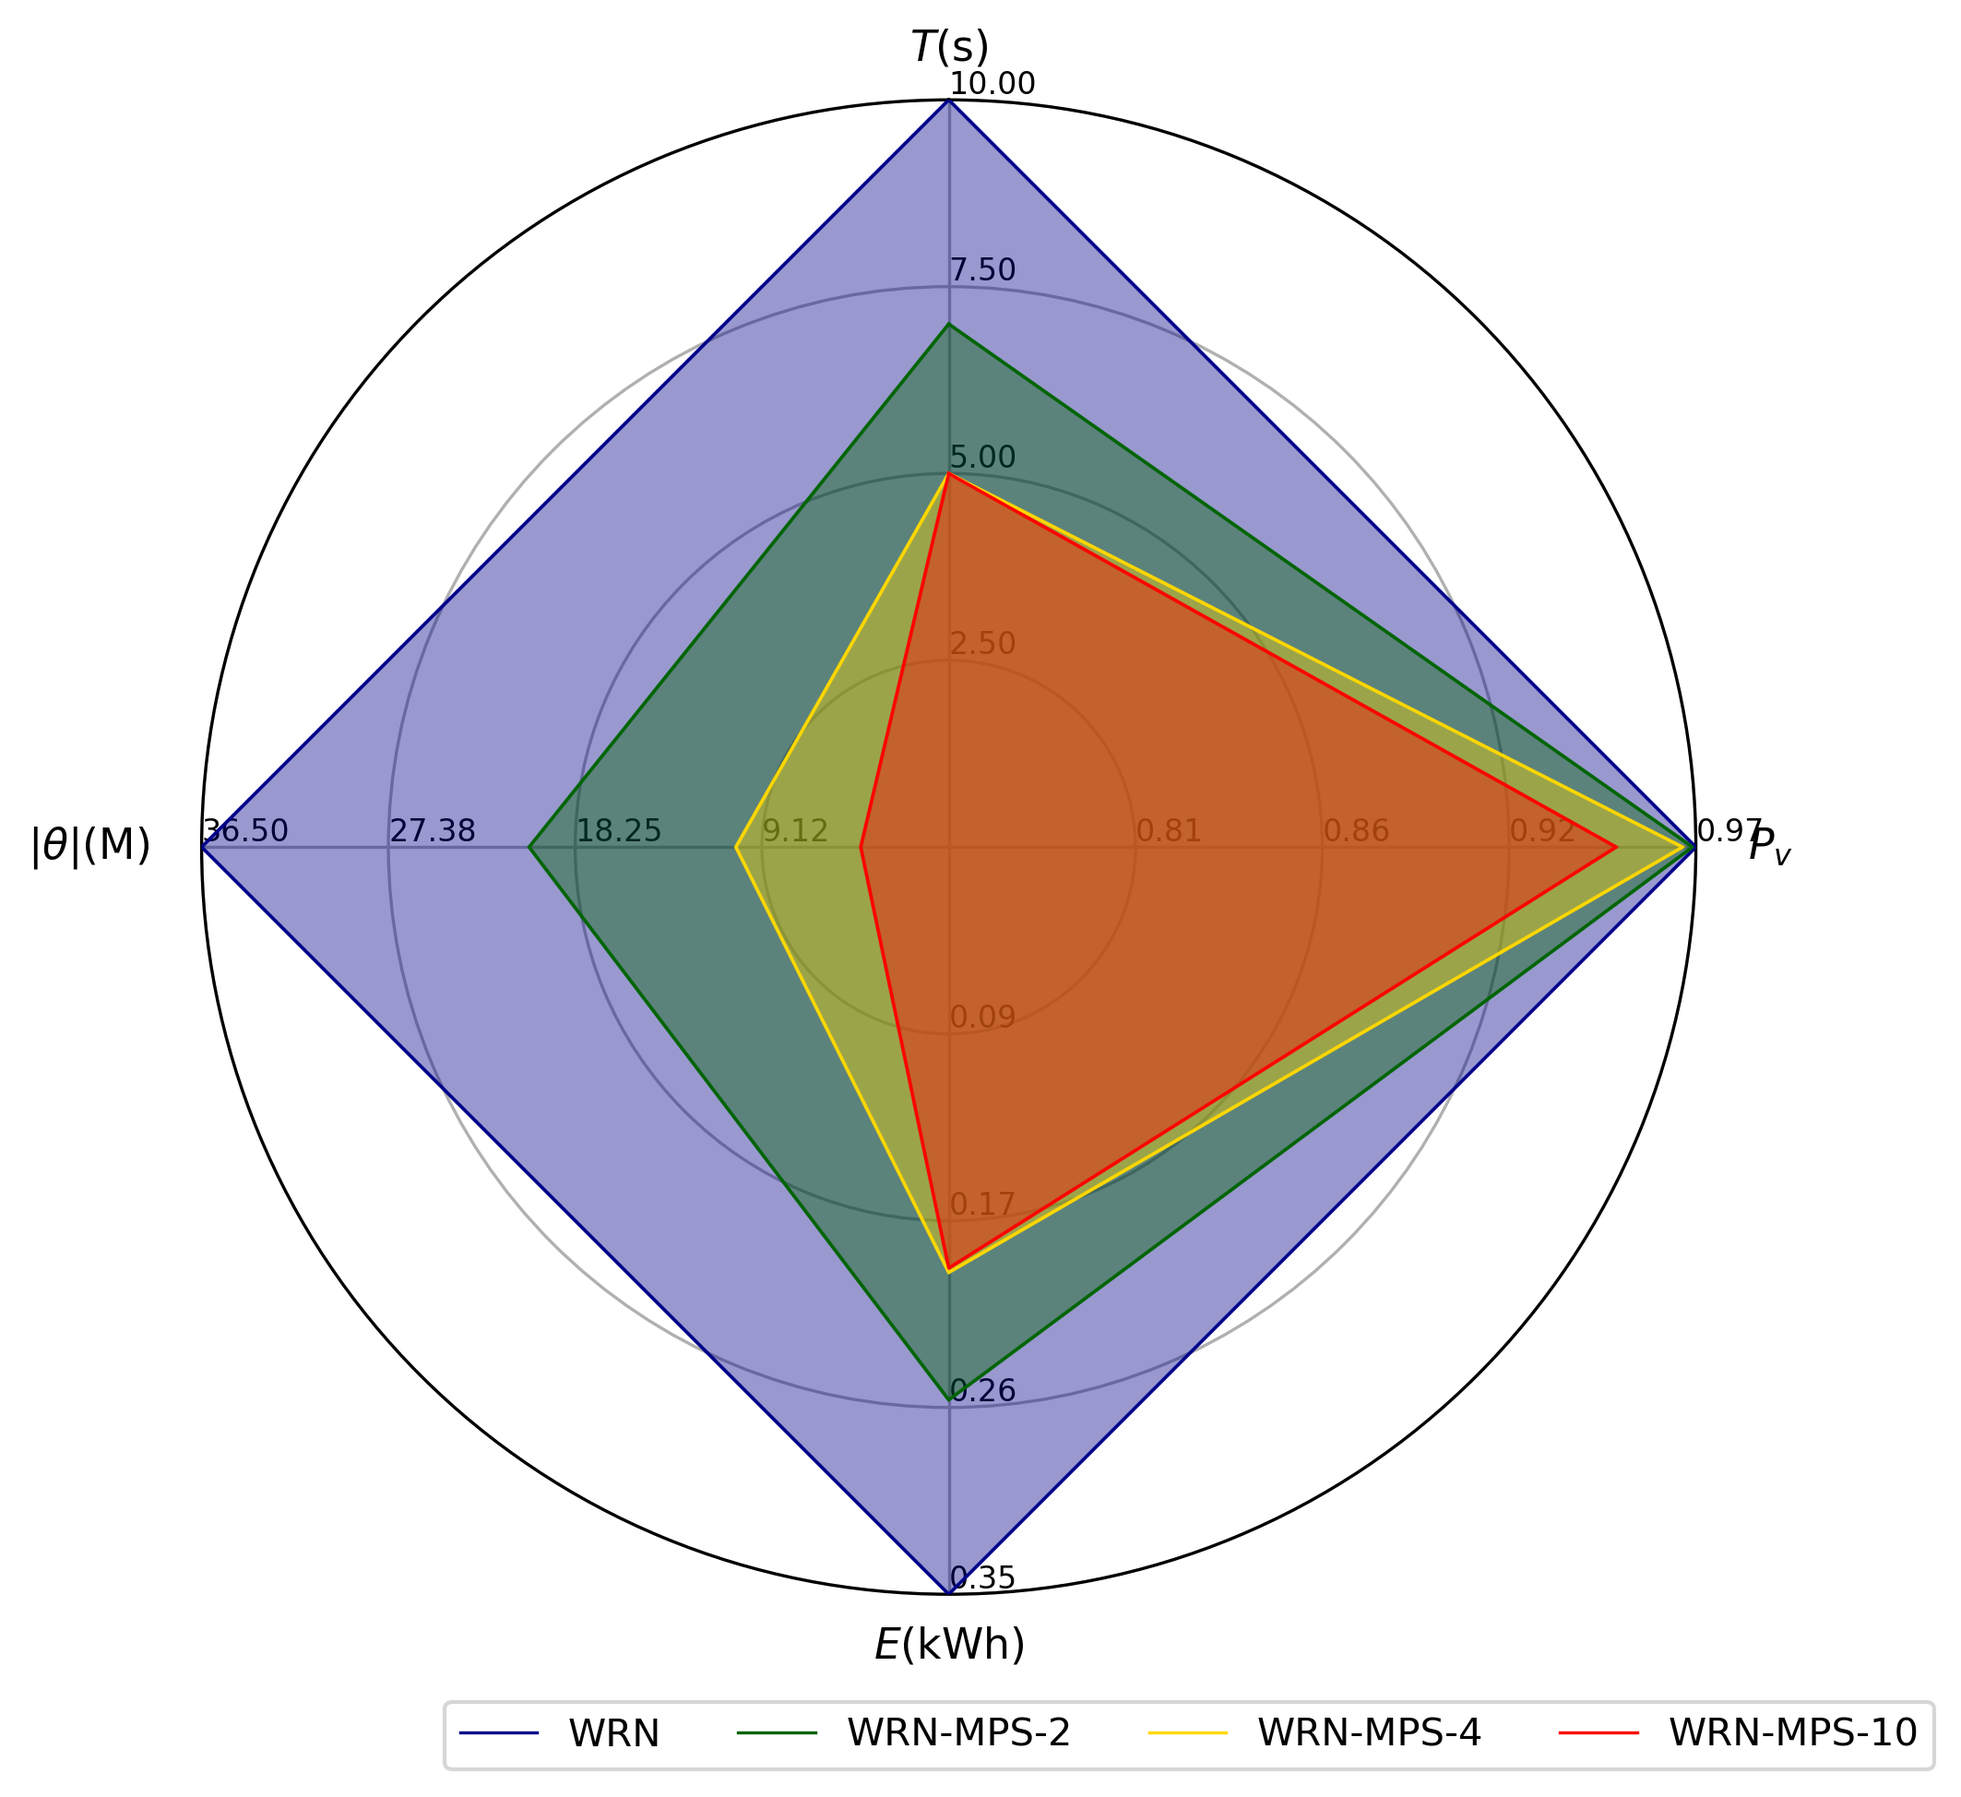
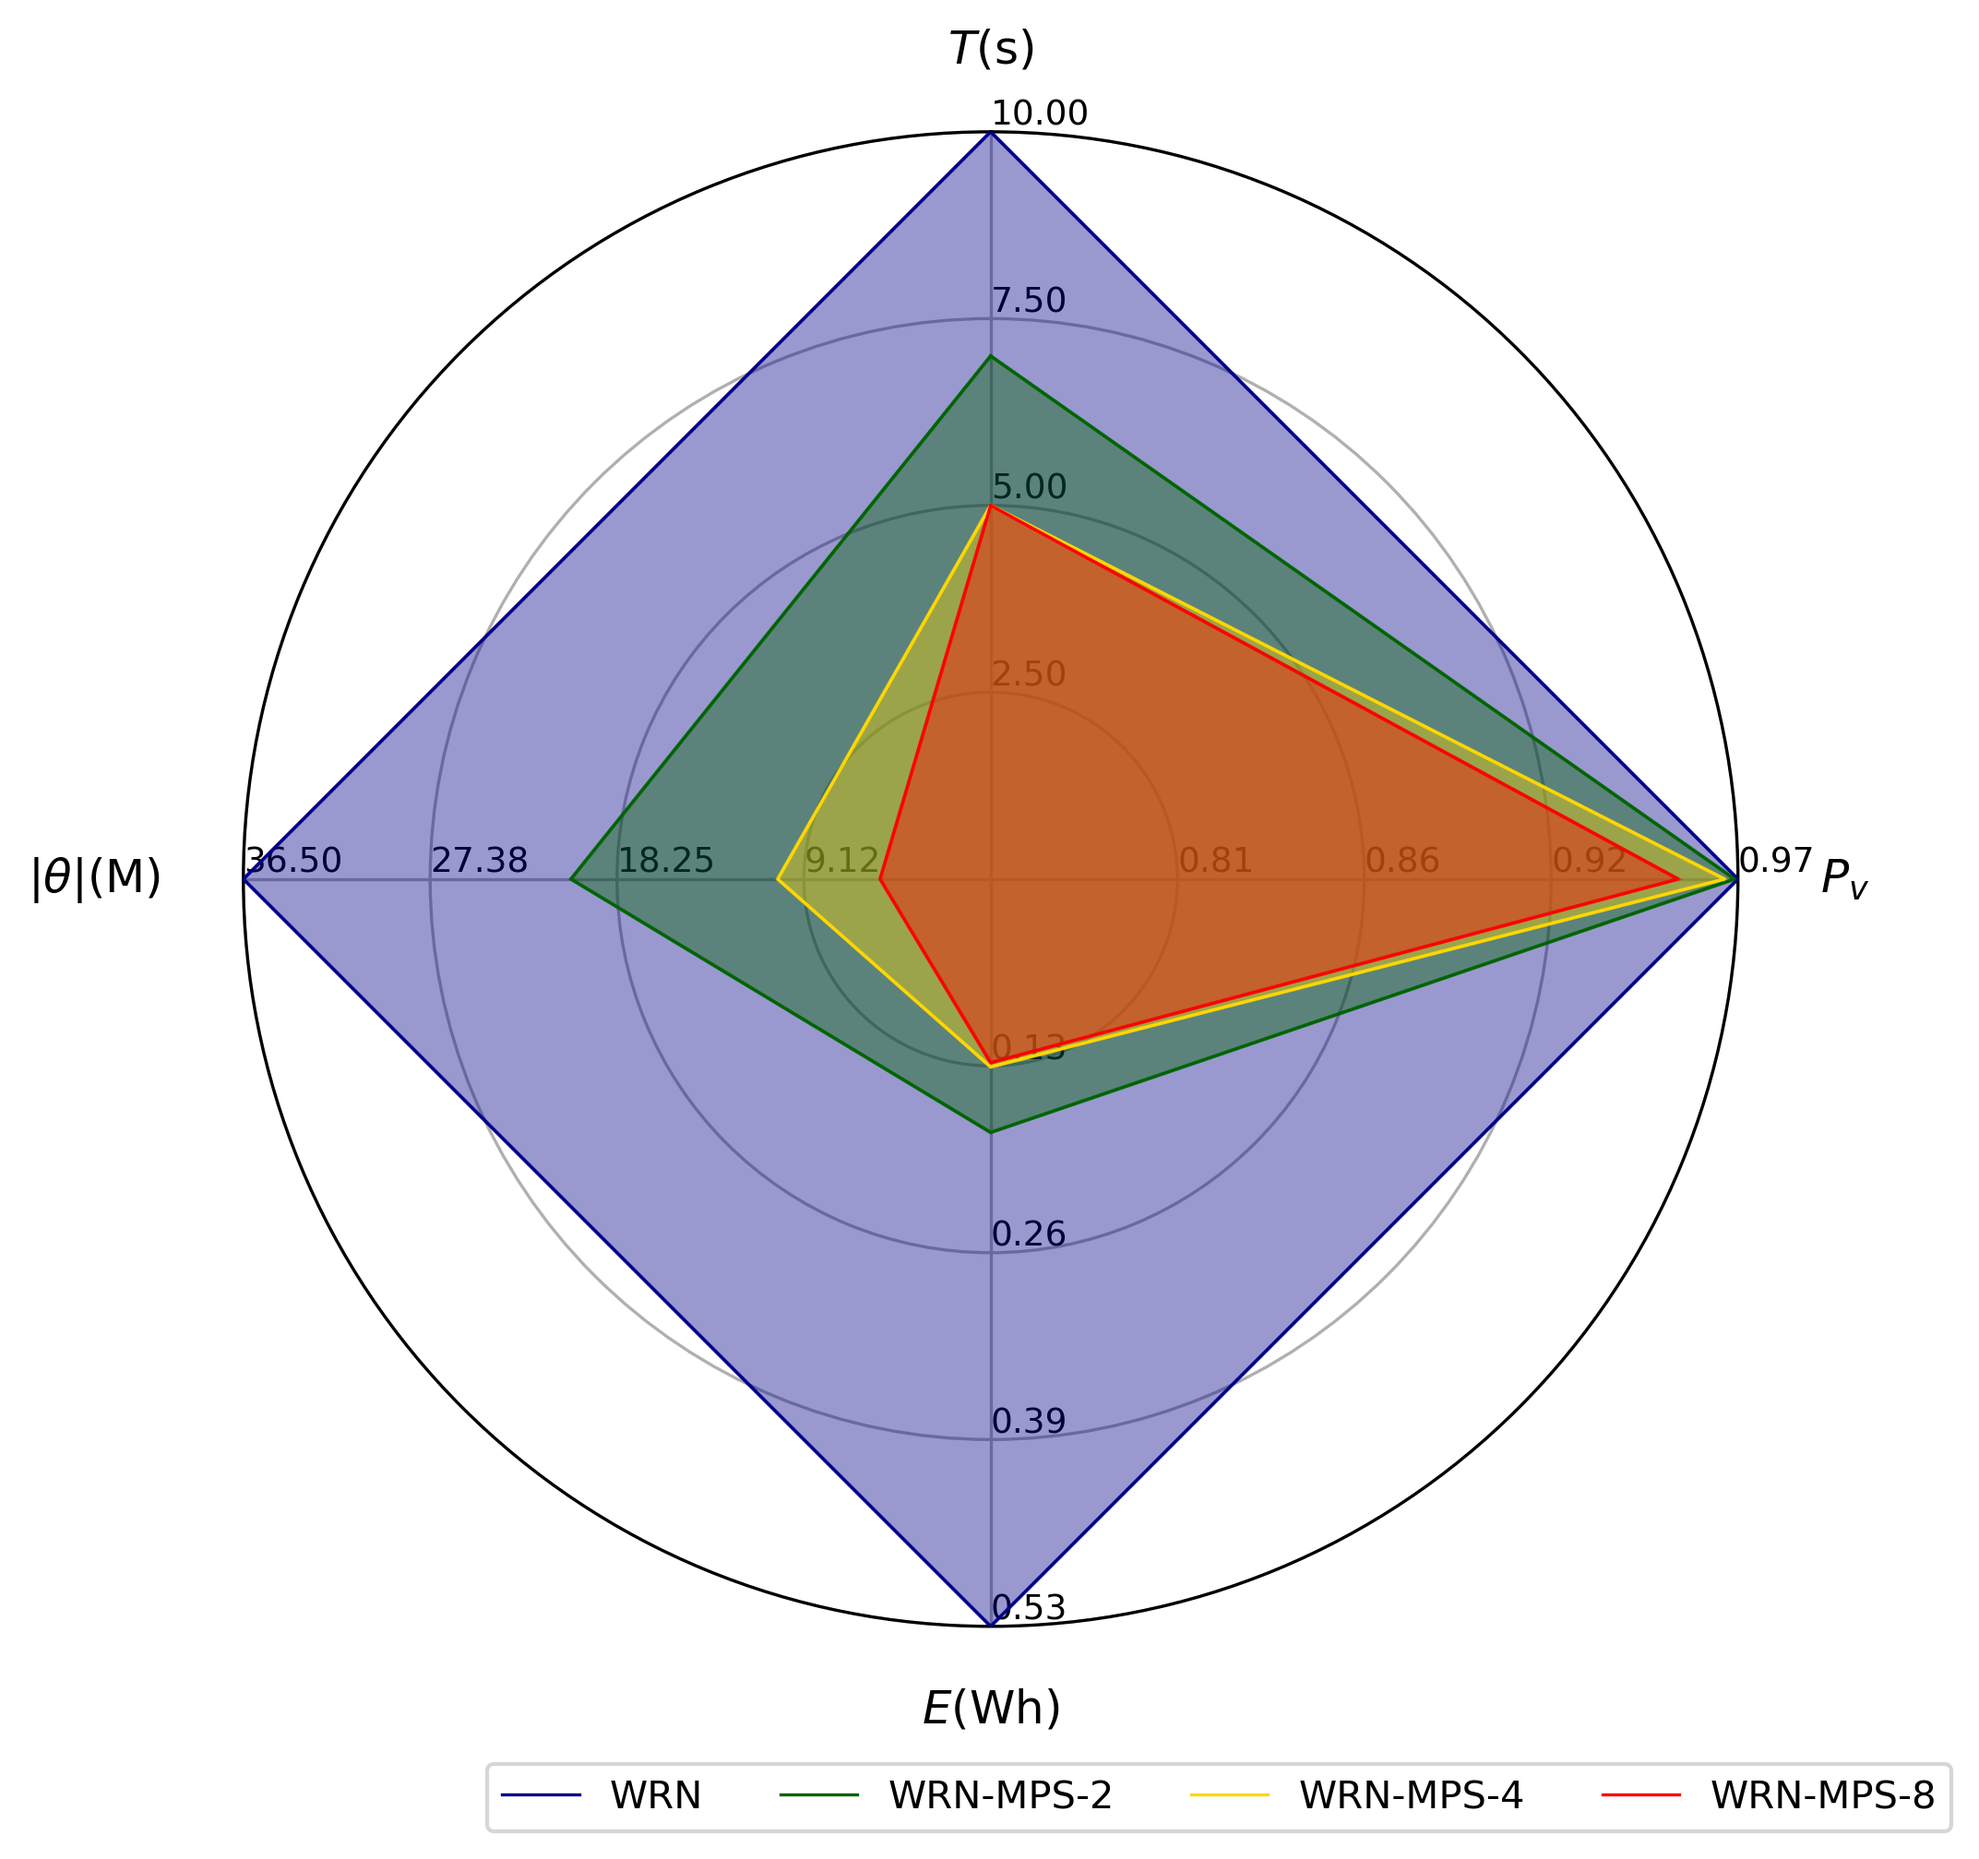
changed radar plot from kWh to Wh

diff --git a/radar_plot/radar_plot.py b/radar_plot/radar_plot.py
@@ -15,16 +15,16 @@ format_cfg = {
     "rad_ln_args": {"visible": True},
     "outer_ring": {"visible": True},
     "angle_ln_args": {"visible": True},
-    "rgrid_tick_lbls_args": {"fontsize": 8},
-    "theta_tick_lbls": {"fontsize": 11},
-    "theta_tick_lbls_pad": 3,
+    "rgrid_tick_lbls_args": {"fontsize": 9},
+    "theta_tick_lbls": {"fontsize": 12},
+    "theta_tick_lbls_pad": 11,
 }
 
 
 d = {
     'time': [10, 7, 5, 5, 5, 5, 0],
     'accuracy': [0.975, 0.974, 0.971, 0.965, 0.957, 0.951, 0.750],
-    'energy': [0.528, 0.177, 0.131, 0.133, 0.141, 0.160, 0],
+    'energy': [0.525, 0.178, 0.132, 0.133, 0.129, 0.160, 0],
     'params': [36.5, 20.5, 10.4, 7.0, 5.4, 4.3, 0]
 }
 model_label = ['WRN', 'WRN-MPS-2', 'WRN-MPS-4', 'WRN-MPS-6', 'WRN-MPS-8', 'WRN-MPS-10']
@@ -43,9 +43,9 @@ radar.fill(df.iloc[1].values.tolist(), alpha=0.4, color=dark_green)
 radar.plot(df.iloc[2].values.tolist(), color=yellow, linewidth=0.8, label=model_label[2])
 radar.fill(df.iloc[2].values.tolist(), alpha=0.4, color=yellow)
 
-radar.plot(df.iloc[5].values.tolist(), color=red, linewidth=0.8, label=model_label[5])
-radar.fill(df.iloc[5].values.tolist(), alpha=0.4, color=red)
+radar.plot(df.iloc[4].values.tolist(), color=red, linewidth=0.8, label=model_label[4])
+radar.fill(df.iloc[4].values.tolist(), alpha=0.4, color=red)
 
-radar.use_legend(loc='lower left', bbox_to_anchor=(0.15, -0.13),ncol=radar.plot_counter)
+radar.use_legend(loc='lower left', bbox_to_anchor=(0.15, -0.15),ncol=radar.plot_counter)
 
 plt.savefig("./result.png", dpi=300, bbox_inches="tight")

diff --git a/radar_plot/plot_utils.py b/radar_plot/plot_utils.py
@@ -132,7 +132,7 @@ class ComplexRadar:
             )
             for l in labels
         ]
-        labels = ["$T$(s)", "$P_{v}$", "$E$(kWh)", r"$|\theta|$(M)"]
+        labels = ["$T$(s)", "$P_{v}$", "$E$(Wh)", r"$|\theta|$(M)"]
         self.ax.set_xticklabels(labels, **self.format_cfg["theta_tick_lbls"])
 
         for t, a in zip(self.ax.get_xticklabels(), angles):
